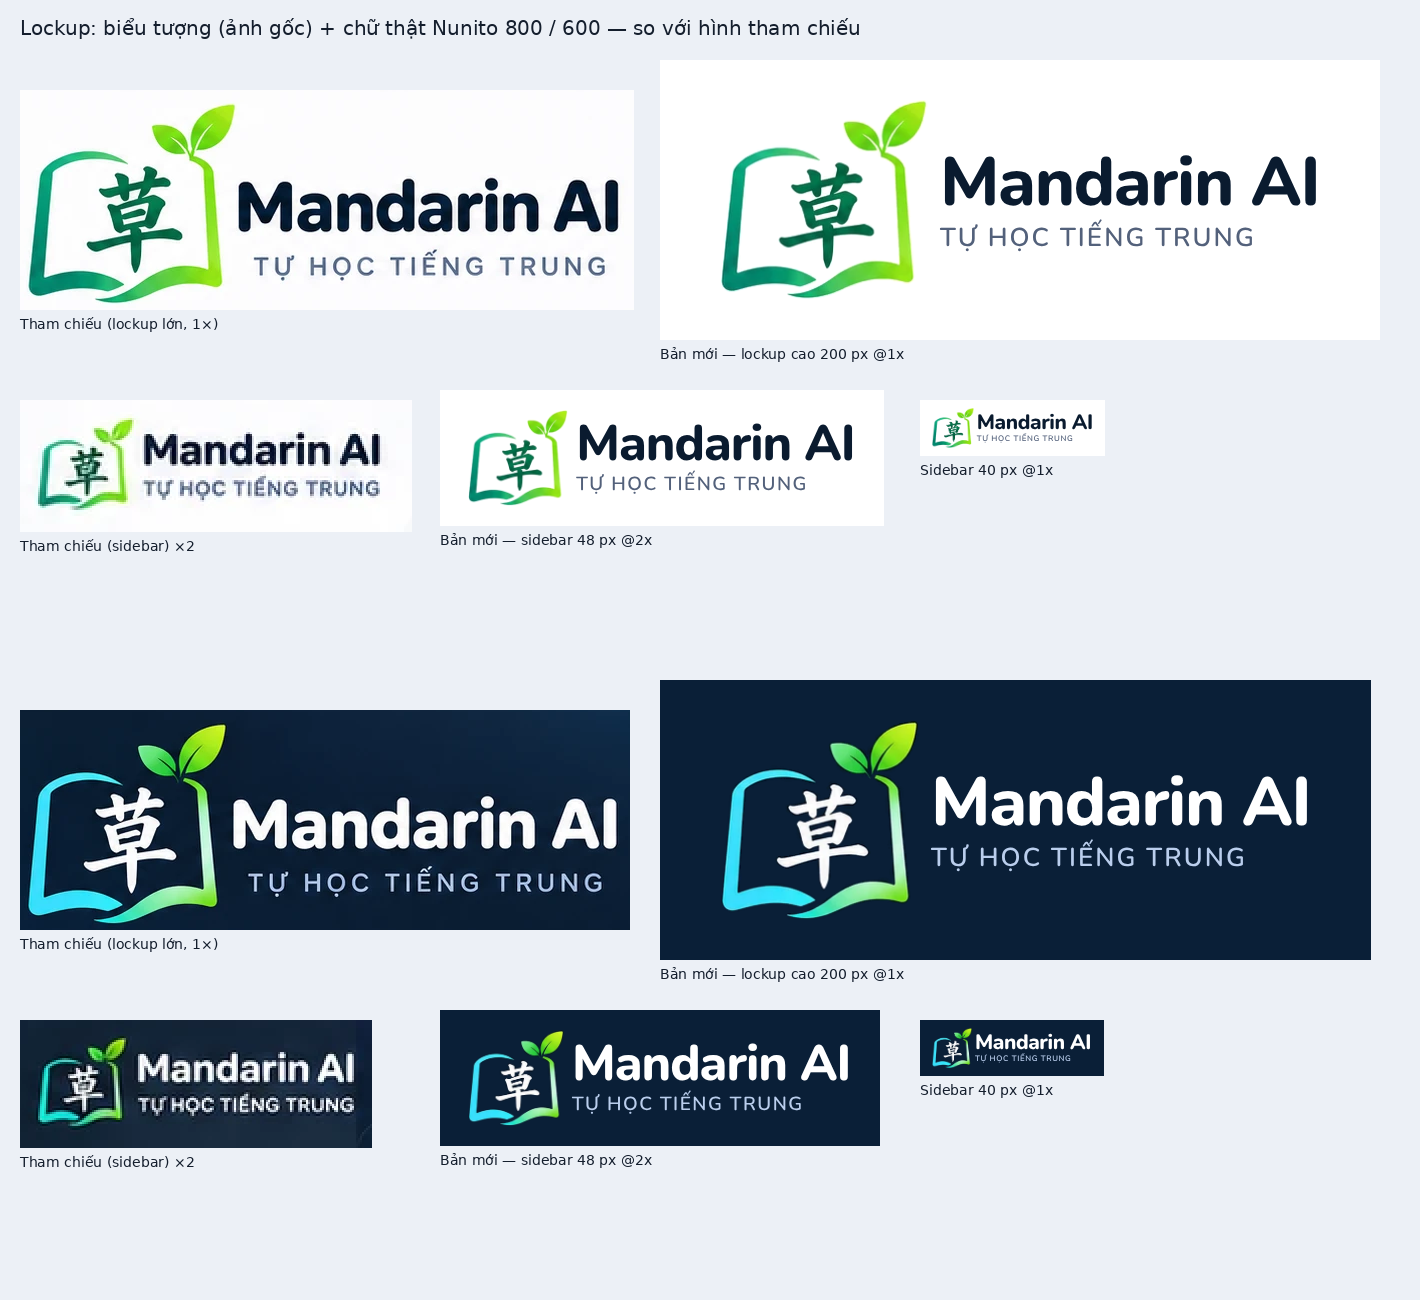
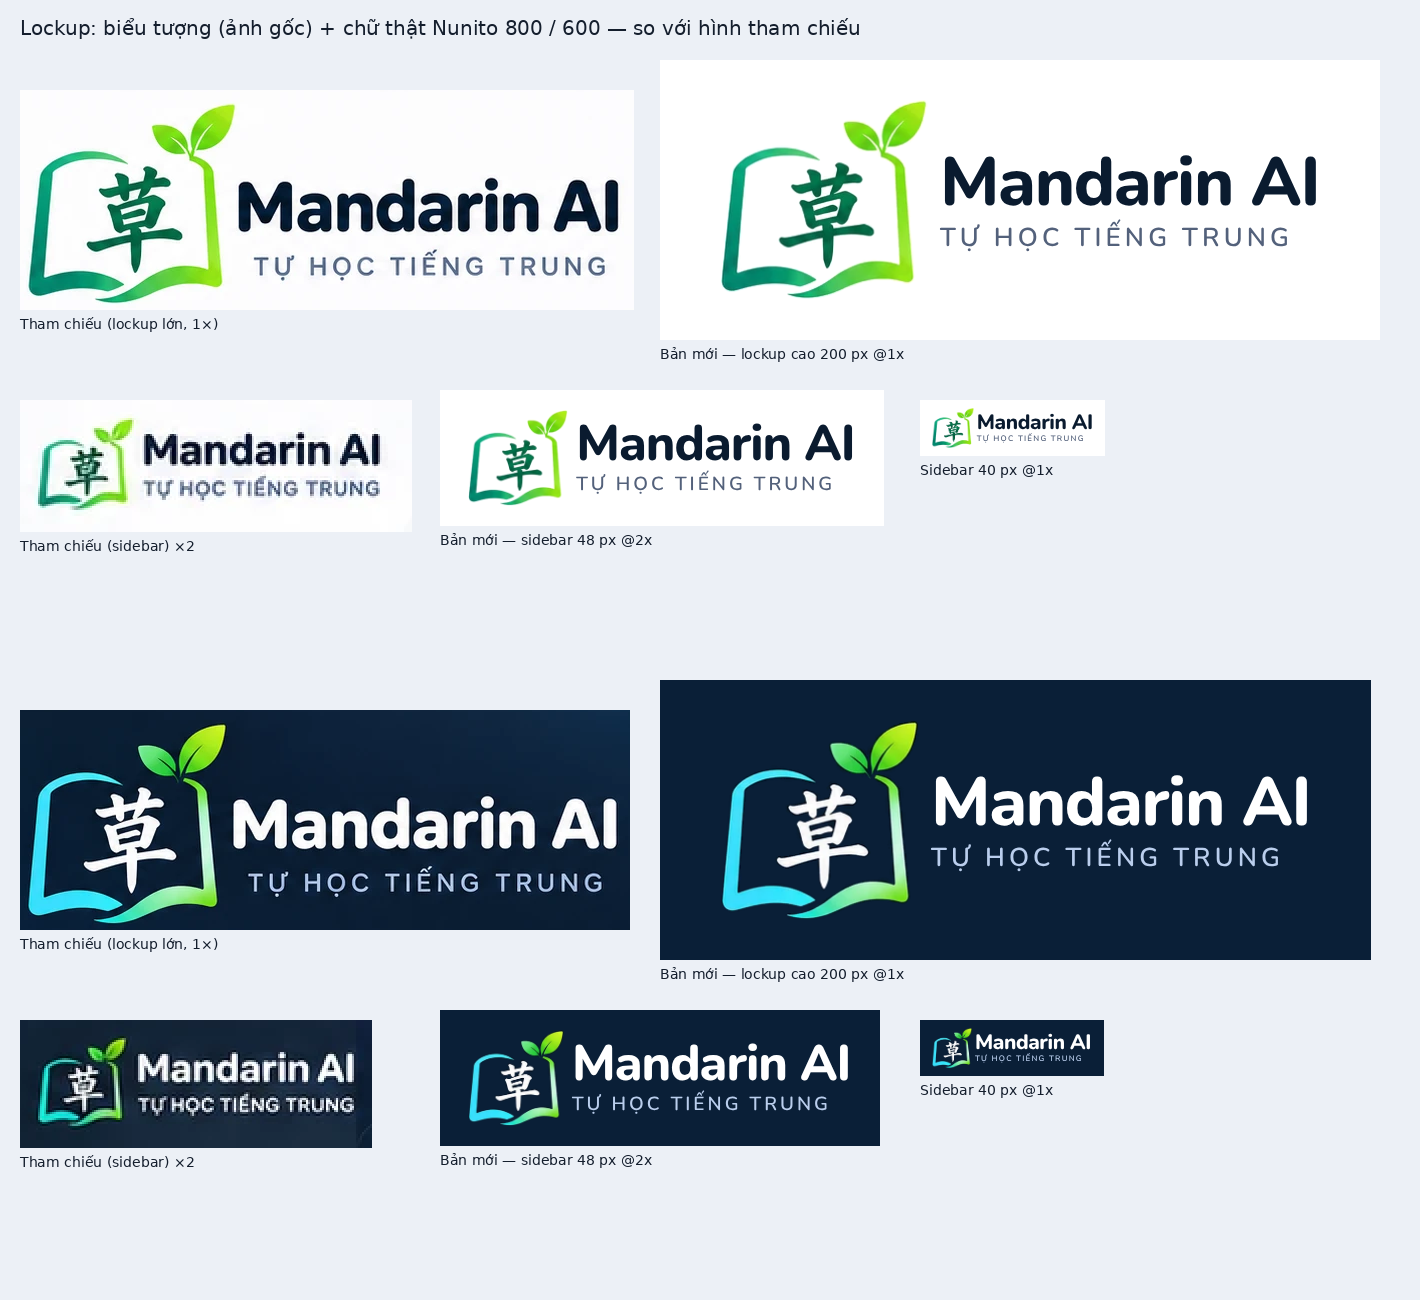
docs(brand): UI-7A approved — tagline letter-spacing 0.16em, previews regenerated
Owner approval: extracted PNG/WebP Light + Dark set is the official logo
asset; upscaled 512 px icon allowed for now; no SVG redraw; Nunito 800 / 600
kept; tagline letter-spacing 0.08em -> 0.16em. D-041 + README updated.
Raster assets unchanged (re-extraction byte-identical).

Claude-Session: https://claude.ai/code/session_013LqNKvrEyxwGX4BePDo76f

diff --git a/docs/DECISIONS.md b/docs/DECISIONS.md
@@ -345,8 +345,8 @@ Quy ước:
 - **Hậu quả:** `docs/PDF_UPLOAD.md`; test contract/API/web/E2E và test Storage thật trong CI; checklist B7.
 
 ## D-041 — Logo Mandarin AI: dùng trực tiếp biểu tượng trong hình tham chiếu + chữ thật Nunito
-- **Ngày:** 2026-11-24 · **Trạng thái:** Concept **đã duyệt** (hình tham chiếu chính thức `docs/design/reference/visual-reference-v2.webp`); **bộ asset chờ chủ dự án duyệt** (PR UI-7A).
+- **Ngày:** 2026-11-24 · **Trạng thái:** Concept **đã duyệt** (hình tham chiếu chính thức `docs/design/reference/visual-reference-v2.webp`); **bộ asset PNG/WebP Light + Dark đã duyệt** (PR UI-7A, 2026-11-24): là asset logo chính thức; icon 512 px phóng to được dùng tạm; không vẽ lại SVG; không đổi tỷ lệ hay màu logo. Tagline chỉnh letter-spacing 0.08em → 0.16em cho gần hình tham chiếu.
 - **Thay đổi phương án (chủ dự án):** bỏ phương án vẽ lại SVG bằng đường Bézier. Biểu tượng sách mở + chữ 草 + hai lá được **trích nguyên từ hình tham chiếu** (PNG/WebP nền trong suốt, Light + Dark), không vẽ lại, không đổi màu, không thay chữ 草 bằng font. Không dùng "Thảo" làm tên thương hiệu.
-- **Typography chính thức:** "Mandarin AI" = Nunito 800, letter-spacing −0.02em, line-height 1.1; "TỰ HỌC TIẾNG TRUNG" = Nunito 600, uppercase, letter-spacing 0.08em, line-height 1.3, ≈ 35–40 % cỡ dòng tên. Font giao diện giữ Inter (Việt/Anh/Pinyin) + Noto Sans SC (chữ Hán nội dung học). Nunito (OFL 1.1) chỉ dùng cho lockup.
+- **Typography chính thức:** "Mandarin AI" = Nunito 800, letter-spacing −0.02em, line-height 1.1; "TỰ HỌC TIẾNG TRUNG" = Nunito 600, uppercase, letter-spacing 0.16em, line-height 1.3, ≈ 35–40 % cỡ dòng tên. Font giao diện giữ Inter (Việt/Anh/Pinyin) + Noto Sans SC (chữ Hán nội dung học). Nunito (OFL 1.1) chỉ dùng cho lockup.
 - **Giới hạn đã biết:** ảnh gốc ≈ 205 px → icon 512 px phải phóng to (hơi mềm) cho tới khi có file logo gốc độ phân giải cao; 16 px không đọc được chữ 草.
-- **Hậu quả:** `docs/design/brand/` (asset, ảnh QC, script). Favicon, icon PWA và logo trong ứng dụng **chỉ thay ở UI-7B sau khi duyệt**. Token `logo` (đỏ cũ) giữ nguyên tới UI-7B.
+- **Hậu quả:** `docs/design/brand/` (asset, ảnh QC, script). Favicon, icon PWA và logo trong ứng dụng thay ở **UI-7B, sau khi các PR nền tảng (UI-1, UI-7A) được merge**. Token `logo` (đỏ cũ) giữ nguyên tới UI-7B.

diff --git a/docs/design/brand/README.md b/docs/design/brand/README.md
@@ -1,6 +1,6 @@
 # Logo Mandarin AI — bộ asset ảnh gốc (UI-7A)
 
-Trạng thái: **chờ chủ dự án duyệt** (D-041). Chưa dùng trong ứng dụng; favicon, icon PWA và logo trong app chỉ thay ở **UI-7B** sau khi duyệt.
+Trạng thái: **đã duyệt — asset logo chính thức** (D-041). Chưa dùng trong ứng dụng; favicon, icon PWA và logo trong app thay ở **UI-7B** sau khi PR nền tảng được merge. Không vẽ lại SVG; không đổi tỷ lệ hoặc màu logo; icon 512 px phóng to được dùng tạm.
 
 Phương án (theo chỉ đạo của chủ dự án, thay phương án SVG vẽ lại trước đó): **dùng trực tiếp biểu tượng trong hình tham chiếu đã duyệt** `docs/design/reference/visual-reference-v2.webp` — sách mở + chữ 草 + hai lá. Không vẽ lại, không đổi màu, không thay chữ 草 bằng font. Phần chữ bên cạnh là **text thật**.
 
@@ -23,7 +23,7 @@ Cách tách nền (`source/extract_raster.py`): cắt đúng vùng biểu tượ
 | Dòng                 | Font   | Weight | Khác                                                                   |
 | -------------------- | ------ | ------ | ---------------------------------------------------------------------- |
 | "Mandarin AI"        | Nunito | 800    | letter-spacing −0.02em, line-height 1.1                                |
-| "TỰ HỌC TIẾNG TRUNG" | Nunito | 600    | uppercase, letter-spacing 0.08em, line-height 1.3, cỡ = 38 % dòng trên |
+| "TỰ HỌC TIẾNG TRUNG" | Nunito | 600    | uppercase, letter-spacing 0.16em, line-height 1.3, cỡ = 38 % dòng trên |
 
 - Nunito: SIL Open Font License 1.1 (Copyright 2014 The Nunito Project Authors), có đủ dấu tiếng Việt ở cả 600 và 800 (đã kiểm tra toàn bộ nguyên âm có dấu + đ).
 - Trong app (UI-7B) Nunito chỉ dùng cho lockup, tải qua `next/font/google` (tự host lúc build, subset latin + vietnamese, chỉ weight 600 + 800). Font giao diện giữ nguyên: Inter (Việt, Anh, Pinyin) và Noto Sans SC (chữ Hán trong nội dung học).
